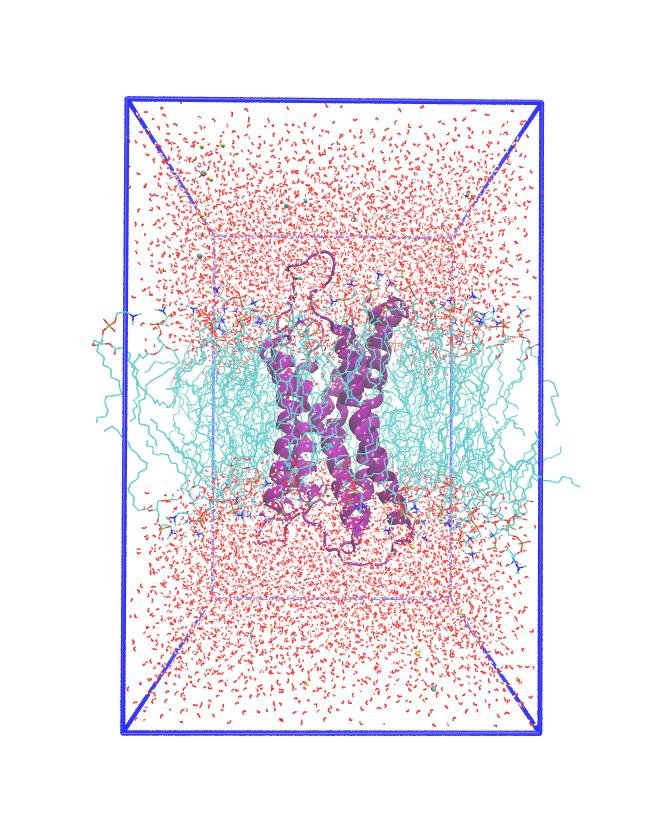
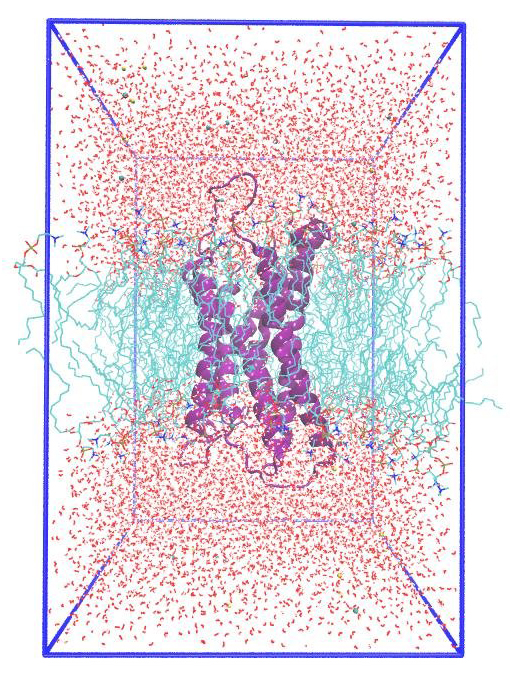
VS-MegaScreen: refactor MD block layout, table alignment, and image transparency

diff --git a/about.html b/about.html
@@ -526,7 +526,7 @@
                     <!-- 第二行：方法对比表 + 分子动力学模拟 -->
                     <div class="grid-2 vs-layout-row">
                         <div class="data-table-wrapper">
-                            <table class="data-table">
+                            <table class="data-table vs-methods-table">
                                 <thead>
                                     <tr><th>方法</th><th>Chemical Space</th><th>Time Consuming</th></tr>
                                 </thead>
@@ -556,8 +556,39 @@
                         </div>
                     </div>
 
+                    <script>
+                        (function () {
+                            function updateMdBlock() {
+                                const block = document.querySelector('.vs-md-block');
+                                const wrapper = document.querySelector('.vs-layout-row .data-table-wrapper');
+                                if (block && wrapper) {
+                                    wrapper.style.height = block.getBoundingClientRect().height + 'px';
+                                }
+                                const img = block?.querySelector('.vs-md-img');
+                                const list = block?.querySelector('.vs-md-list');
+                                if (img && list) {
+                                    img.style.height = list.getBoundingClientRect().height + 'px';
+                                }
+                                const heading = block?.querySelector('.vs-subheading');
+                                if (heading && block) {
+                                    const headingRect = heading.getBoundingClientRect();
+                                    const headingStyle = window.getComputedStyle(heading);
+                                    const marginBottom = parseFloat(headingStyle.marginBottom) || 0;
+                                    const blockStyle = window.getComputedStyle(block);
+                                    const paddingTop = parseFloat(blockStyle.paddingTop) || 0;
+                                    block.style.marginTop = -(headingRect.height + marginBottom + paddingTop) + 'px';
+                                }
+                            }
+                            window.addEventListener('load', updateMdBlock);
+                            window.addEventListener('resize', updateMdBlock);
+                            if (document.readyState === 'complete' || document.readyState === 'interactive') {
+                                updateMdBlock();
+                            }
+                        })();
+                    </script>
+
                     <!-- 第三行：平台优势 + 代谢预测 -->
-                    <div class="grid-2 vs-layout-row">
+                    <div class="grid-2 vs-layout-row vs-bottom-align-row">
                         <div class="vs-advantages">
                             <h5 class="vs-subheading">平台优势</h5>
                             <ul class="vs-list">
@@ -568,18 +599,12 @@
                             </ul>
                         </div>
 
-                        <div class="vs-metabolism">
-                            <div class="vs-metabolism-item">
-                                <div class="vs-metabolism-title">预测药物代谢反应（Metabolic prediction）</div>
-                                <img src="images/about/metabolic-prediction.png" alt="Metabolic prediction" class="vs-metabolism-img">
-                            </div>
-                            <div class="vs-metabolism-item">
-                                <div class="vs-metabolism-title">Phase I Metabolism</div>
-                                <img src="images/about/phase1-metabolism.png" alt="Phase I metabolism" class="vs-metabolism-img">
-                            </div>
-                            <div class="vs-metabolism-item">
-                                <div class="vs-metabolism-title">Phase II Metabolism</div>
-                                <img src="images/about/phase2-metabolism.png" alt="Phase II metabolism" class="vs-metabolism-img">
+                        <div class="vs-metabolic-block">
+                            <div class="vs-md-metabolic-title">预测药物代谢反应（Metabolic prediction）</div>
+                            <img src="images/about/metabolic-prediction.png" alt="Metabolic prediction" class="vs-md-metabolic-img">
+                            <div class="vs-md-extra-imgs">
+                                <img src="images/about/phase1-metabolism.png" alt="Phase I metabolism" class="vs-md-extra-img">
+                                <img src="images/about/phase2-metabolism.png" alt="Phase II metabolism" class="vs-md-extra-img">
                             </div>
                         </div>
                     </div>

diff --git a/style.css b/style.css
@@ -2138,7 +2138,7 @@ h1 {
 /* ================= VS-MegaScreen Layout ================= */
 .vs-layout-row {
     margin-top: 20px;
-    align-items: stretch;
+    align-items: start;
 }
 
 .vs-col {
@@ -2169,45 +2169,47 @@ h1 {
 .vs-md-block {
     display: flex;
     flex-direction: column;
-    gap: 12px;
-    height: 100%;
+    gap: 0;
+    background: rgba(255, 255, 255, 0.04);
+    border: 1px solid rgba(255, 255, 255, 0.08);
+    border-radius: 16px;
+    padding: 12px 16px 24px;
+}
+
+.vs-md-block > .vs-subheading {
+    margin-bottom: 16px;
 }
 
 .vs-md-inner {
-    display: grid;
-    grid-template-columns: 1fr 1fr;
+    display: flex;
+    flex-direction: row;
     gap: 16px;
-    flex: 1;
-    min-height: 0;
-    align-items: stretch;
+    align-items: center;
 }
 
 .vs-md-figure {
     margin: 0;
     display: flex;
     flex-direction: column;
-    height: 100%;
-    min-height: 0;
+    flex: 0 0 auto;
 }
 
 .vs-md-img {
-    flex: 1;
-    min-height: 0;
+    height: 180px;
+    width: auto;
+    max-width: 100%;
     object-fit: contain;
-    background: #fff;
+    background: transparent;
+    border-radius: 8px;
     padding: 6px;
 }
 
 .vs-md-list {
     margin: 0;
-    height: 100%;
     display: flex;
     flex-direction: column;
     justify-content: center;
-    background: rgba(255, 255, 255, 0.04);
-    border: 1px solid rgba(255, 255, 255, 0.08);
-    border-radius: 12px;
-    padding: 16px 16px 16px 34px;
+    padding: 0 0 0 22px;
 }
 
 .vs-md-list li {
@@ -2216,36 +2218,64 @@ h1 {
     margin-bottom: 6px;
 }
 
-/* Metabolism stack */
-.vs-metabolism {
-    display: flex;
-    flex-direction: column;
-    gap: 12px;
-    height: 100%;
-    justify-content: space-between;
-}
-
-.vs-metabolism-item {
-    background: rgba(255, 255, 255, 0.04);
-    border: 1px solid rgba(255, 255, 255, 0.08);
-    border-radius: 12px;
-    padding: 12px;
-    flex: 1;
-    display: flex;
-    flex-direction: column;
-    justify-content: center;
-}
-
-.vs-metabolism-title {
+.vs-md-metabolic-title {
     color: #fff;
     font-weight: 600;
     font-size: 0.95em;
+    text-align: center;
     margin-bottom: 10px;
 }
 
-.vs-metabolism-img {
+.vs-md-metabolic-img {
     display: block;
     width: 100%;
+    max-height: 170px;
+    object-fit: contain;
+    background: #fff;
+    border-radius: 8px;
+    padding: 6px;
+    margin-bottom: 12px;
+}
+
+.vs-metabolic-block {
+    background: rgba(255, 255, 255, 0.04);
+    border: 1px solid rgba(255, 255, 255, 0.08);
+    border-radius: 16px;
+    padding: 16px;
+}
+
+.vs-advantages {
+    padding: 16px;
+    height: 100%;
+    display: flex;
+    flex-direction: column;
+    justify-content: flex-end;
+}
+
+.vs-advantages .vs-list li:last-child {
+    margin-bottom: 0;
+}
+
+.vs-bottom-align-row {
+    align-items: stretch;
+}
+
+.vs-methods-table th,
+.vs-methods-table td {
+    text-align: center;
+}
+
+.vs-md-extra-imgs {
+    display: flex;
+    flex-direction: row;
+    gap: 12px;
+}
+
+.vs-md-extra-img {
+    flex: 1 1 0;
+    min-width: 0;
+    width: 100%;
+    max-width: 100%;
     max-height: 170px;
     object-fit: contain;
     background: #fff;
@@ -2264,21 +2294,62 @@ h1 {
     }
 
     .vs-md-inner {
-        grid-template-columns: 1fr;
+        flex-direction: row;
+        gap: 10px;
     }
 
-    .vs-md-img {
-        max-height: 220px;
+    .vs-md-list {
+        padding-left: 18px;
     }
 
-    .vs-metabolism-img {
-        max-height: 200px;
+    .vs-md-list li {
+        font-size: 0.85em;
+        margin-bottom: 4px;
+    }
+
+    .vs-md-metabolic-img,
+    .vs-md-extra-img {
+        max-height: 130px;
+    }
+
+    .vs-md-extra-imgs {
+        flex-direction: row;
+        gap: 8px;
+    }
+
+    .vs-bottom-align-row {
+        align-items: stretch;
+    }
+
+    .vs-bottom-align-row .vs-advantages {
+        order: 2;
+    }
+
+    .vs-bottom-align-row .vs-metabolic-block {
+        order: 1;
+    }
+
+    .vs-layout-row .data-table-wrapper {
+        height: auto !important;
+    }
+
+    .vs-md-block {
+        margin-top: 0 !important;
     }
 }
 
 /* ================= VS-MegaScreen Workflow v2 ================= */
 .vs-layout-row-top {
     grid-template-columns: 1fr 2fr;
+    margin-bottom: 60px;
+}
+
+.vs-methods-table {
+    height: 100%;
+}
+
+.vs-methods-table tr {
+    height: 25%;
 }
 
 .vs-flow-track-4 {
